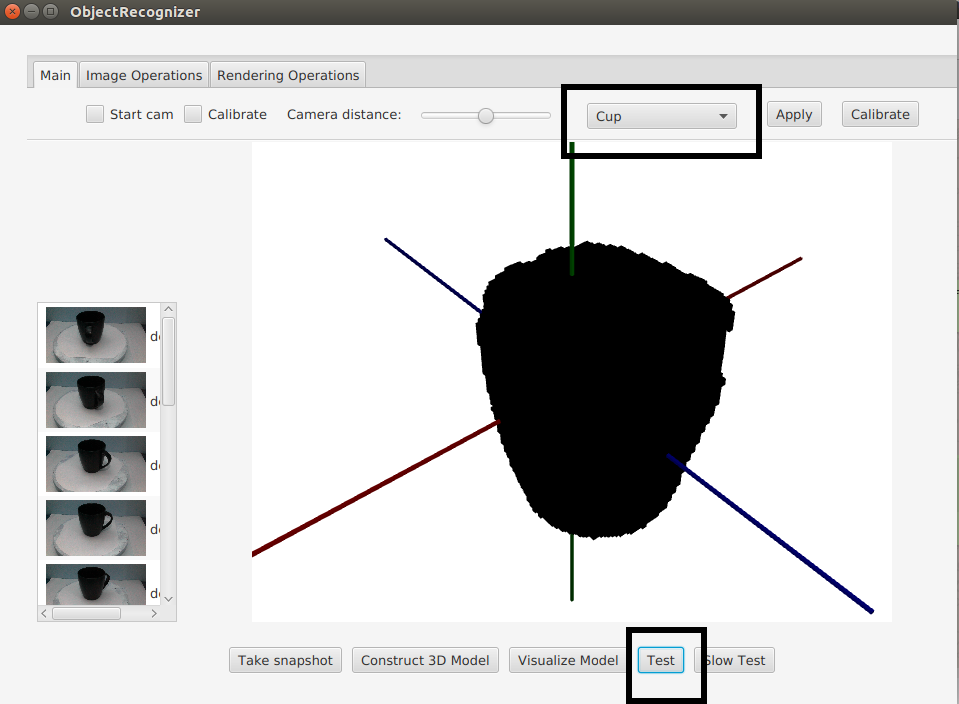
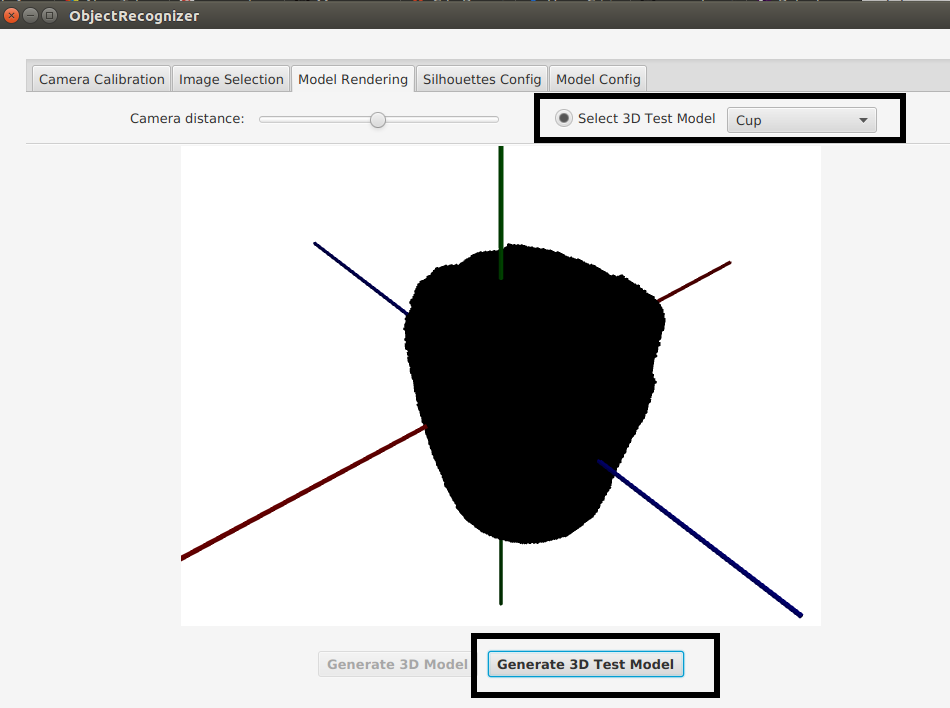
Changes made to the README

diff --git a/README.md b/README.md
@@ -24,6 +24,6 @@ After the project is loaded, the project's build path is configured to add the p
 ![Buil Path Conf](/docs_images/BuildPathConf.png)
 
 ## Project usage
-To run the project, run the *nl.tue.vc.application.ObjectReconstructor.java* as a Java application. To see examples of 3D models, select *Charger*, *Cup* or *Hexagon* from the dropdown menu in the right top of the Main tab and click the button *Test*.
+To use the application, run the *nl.tue.vc.application.ObjectReconstructor.java* as a Java application. To see examples of 3D models, first enable the **Select 3D Test Model** button, then select **Charger**, **Cup** or **Hexagon** from the dropdown menu next to the checkbox button, and finally click the "Generate 3D Test Model" button.
 
 ![Object Reconstructor](/docs_images/ObjectReconstructor.png)
